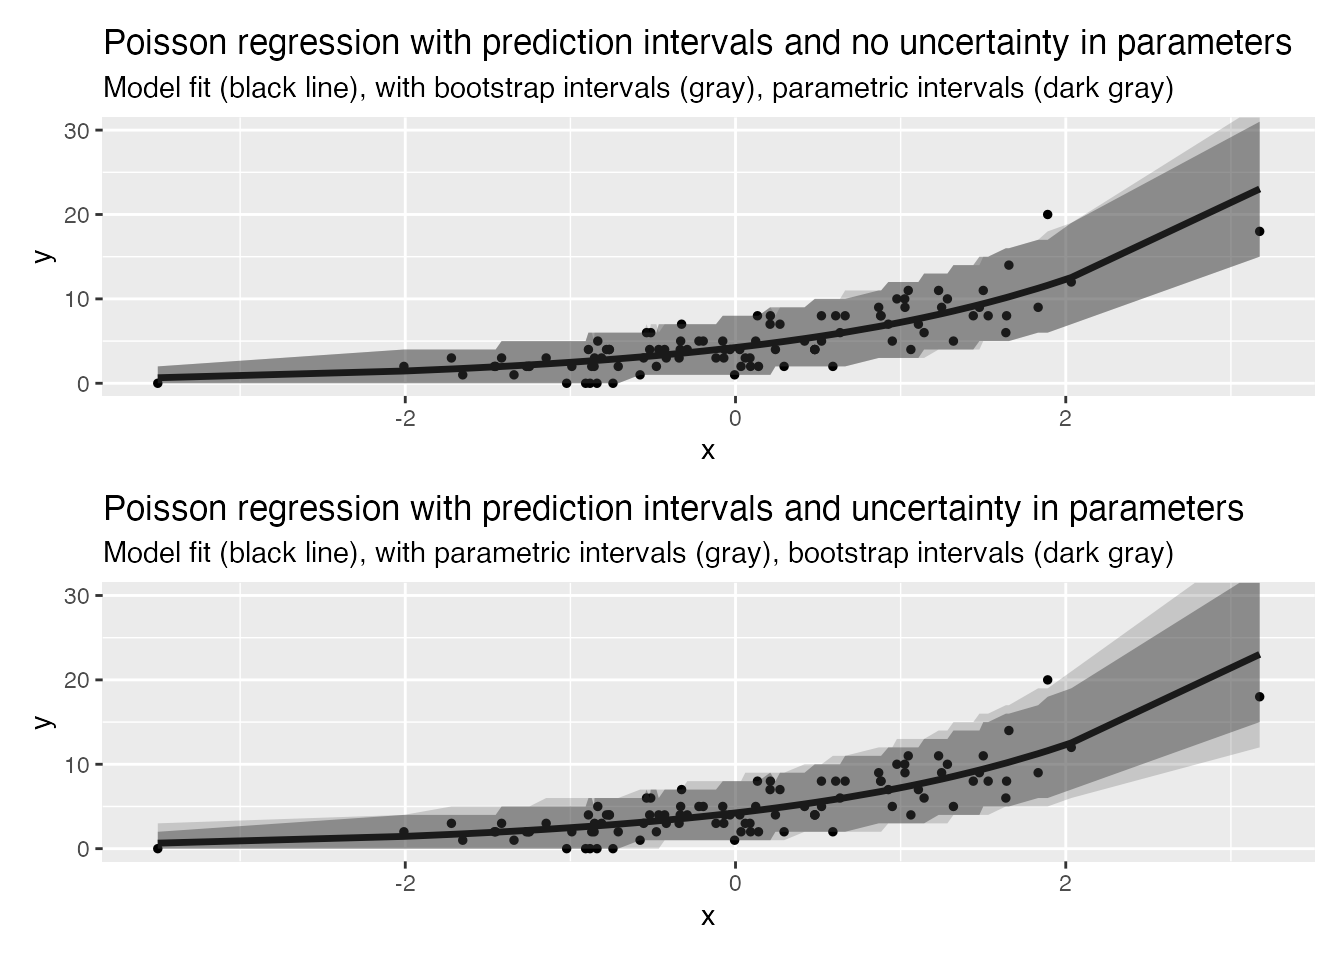
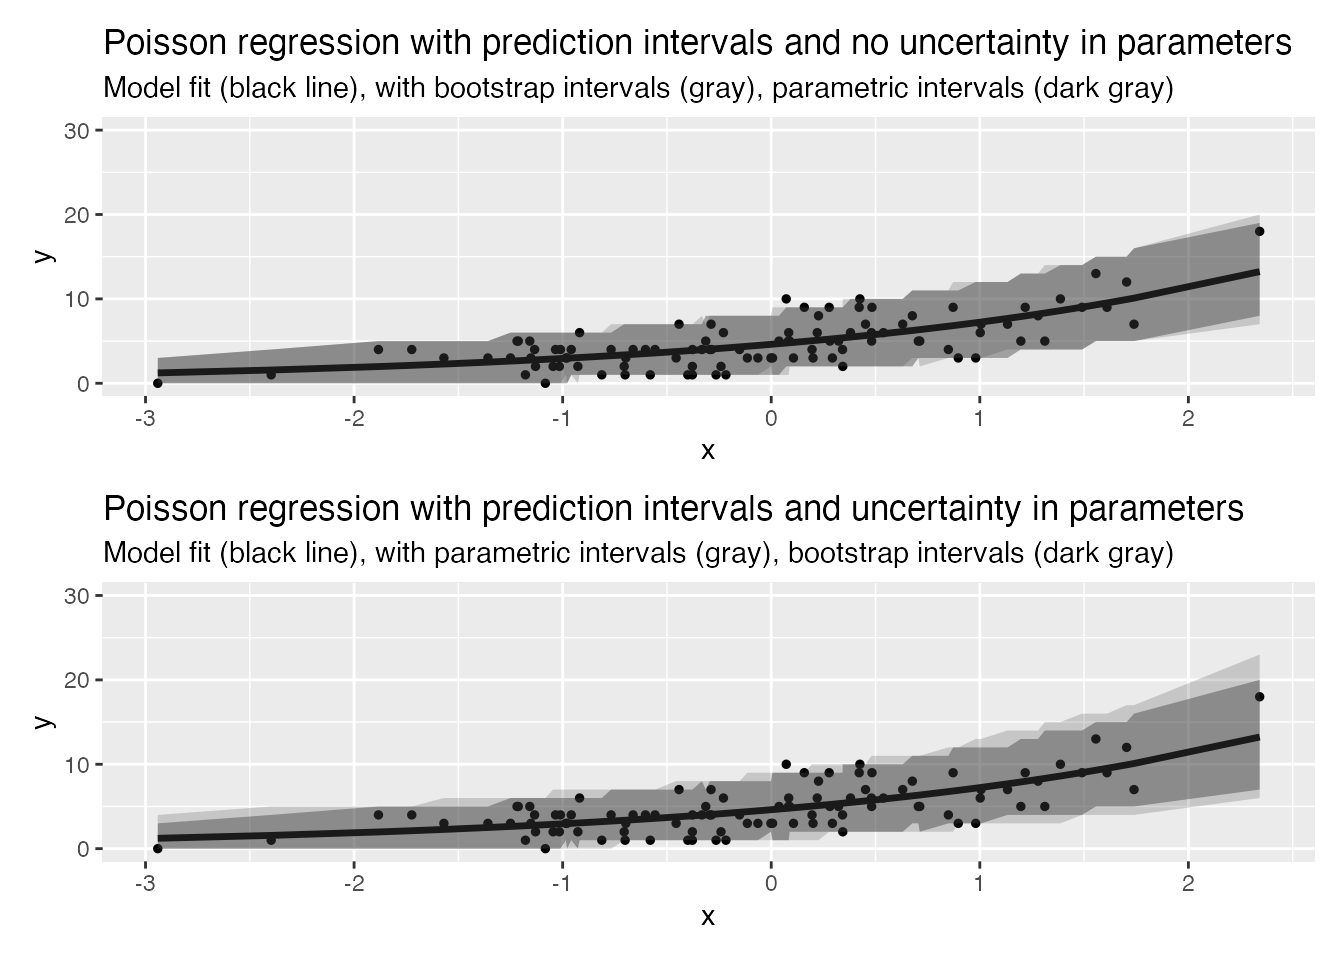
Built site for trending: 0.0.1.0@ecd8669

Changed region(s): [[0.0938, 0.5938, 0.9375, 0.9062], [0.0938, 0.125, 0.9375, 0.4062]]

diff --git a/articles/prediction_intervals.html b/articles/prediction_intervals.html
@@ -31,7 +31,7 @@
       </button>
       <span class="navbar-brand">
         <a class="navbar-link" href="../index.html">trending</a>
-        <span class="version label label-default" data-toggle="tooltip" data-placement="bottom" title="Released version">0.0.0.9000</span>
+        <span class="version label label-default" data-toggle="tooltip" data-placement="bottom" title="Released version">0.0.1.0</span>
       </span>
     </div>
 
@@ -115,7 +115,7 @@
 <h1 class="hasAnchor">
 <a href="#comparison-to-a-bootstrap-approach" class="anchor"></a>Comparison to a bootstrap approach</h1>
 <p>Below we compare the prediction intervals from trending with those generated by the <a href="https://CRAN.R-project.org/package=ciTools"><code>ciTools</code></a> package. <code>ciTools</code> uses a parametric bootstrap approach so the expectation is that <code>trending</code> will produce a more conservative (wider) interval when we allow for uncertainty around the estimate, and a less conservative (narrower) interval when uncertainty is ignored.</p>
-<p>The following examples build on those discussed in the <a href="https://cran.r-project.org/web/packages/ciTools/vignettes/ciTools-glm-vignette.html">ciTools glm vignette</a>:</p>
+<p>The following examples build on those discussed in the <a href="https://CRAN.R-project.org/package=ciTools/vignettes/ciTools-glm-vignette.html">ciTools glm vignette</a>:</p>
 <div id="example-1---poisson" class="section level2">
 <h2 class="hasAnchor">
 <a href="#example-1---poisson" class="anchor"></a>Example 1 - Poisson</h2>
@@ -145,12 +145,12 @@
 <span class="co">#&gt; 20000): The response is not continuous, so Prediction Intervals are approximate</span>
 <span class="fu"><a href="https://rdrr.io/r/utils/head.html">head</a></span><span class="op">(</span><span class="va">dat1</span><span class="op">)</span>
 <span class="co">#&gt;            x y     pred lpb upb</span>
-<span class="co">#&gt; 1  0.4801846 4 5.472529   2  10</span>
-<span class="co">#&gt; 2 -0.8812712 0 2.647615   0   6</span>
-<span class="co">#&gt; 3  1.2481073 9 8.242336   4  13</span>
-<span class="co">#&gt; 4 -0.5563310 3 3.148588   1   6</span>
-<span class="co">#&gt; 5 -2.0082819 2 1.451519   0   4</span>
-<span class="co">#&gt; 6 -1.2552399 2 2.168893   0   5</span>
+<span class="co">#&gt; 1 -0.1143975 3 4.384001   1   8</span>
+<span class="co">#&gt; 2  1.2176999 9 7.979903   4  13</span>
+<span class="co">#&gt; 3  0.1065936 3 4.842002   2   9</span>
+<span class="co">#&gt; 4  0.6765125 8 6.256286   3  11</span>
+<span class="co">#&gt; 5 -0.9843339 3 2.964782   1   6</span>
+<span class="co">#&gt; 6 -0.7050152 2 3.361530   1   7</span>
 
 <span class="co"># add intervals with trending (no uncertainty in parameters)</span>
 <span class="va">poisson_model</span> <span class="op">&lt;-</span> <span class="fu"><a href="../reference/trending_model.html">glm_model</a></span><span class="op">(</span><span class="va">y</span> <span class="op">~</span> <span class="va">x</span>, family <span class="op">=</span> <span class="st">"poisson"</span><span class="op">)</span>
@@ -158,23 +158,23 @@
 <span class="va">dat2</span> <span class="op">&lt;-</span> <span class="fu"><a href="https://rdrr.io/r/stats/predict.html">predict</a></span><span class="op">(</span><span class="va">fitted_model</span>, uncertain <span class="op">=</span> <span class="cn">FALSE</span>, alpha <span class="op">=</span> <span class="fl">0.1</span><span class="op">)</span>
 <span class="fu"><a href="https://rdrr.io/r/utils/head.html">head</a></span><span class="op">(</span><span class="va">dat2</span><span class="op">)</span>
 <span class="co">#&gt;   y          x estimate lower_ci upper_ci lower_pi upper_pi</span>
-<span class="co">#&gt; 1 4  0.4801846 5.472529 5.083101 5.891792        2       10</span>
-<span class="co">#&gt; 2 0 -0.8812712 2.647615 2.331794 3.006211        0        6</span>
-<span class="co">#&gt; 3 9  1.2481073 8.242336 7.576323 8.966896        4       13</span>
-<span class="co">#&gt; 4 3 -0.5563310 3.148588 2.821859 3.513147        1        6</span>
-<span class="co">#&gt; 5 2 -2.0082819 1.451519 1.193990 1.764592        0        4</span>
-<span class="co">#&gt; 6 2 -1.2552399 2.168893 1.869184 2.516659        0        5</span>
+<span class="co">#&gt; 1 3 -0.1143975 4.384001 4.039149 4.758295        1        8</span>
+<span class="co">#&gt; 2 9  1.2176999 7.979903 7.185131 8.862588        4       13</span>
+<span class="co">#&gt; 3 3  0.1065936 4.842002 4.485838 5.226443        2        9</span>
+<span class="co">#&gt; 4 8  0.6765125 6.256286 5.771860 6.781369        2       11</span>
+<span class="co">#&gt; 5 3 -0.9843339 2.964782 2.609530 3.368396        0        6</span>
+<span class="co">#&gt; 6 2 -0.7050152 3.361530 3.010710 3.753230        1        7</span>
 
 <span class="co"># add intervals with trending (uncertainty in parameters)</span>
 <span class="va">dat3</span> <span class="op">&lt;-</span> <span class="fu"><a href="https://rdrr.io/r/stats/predict.html">predict</a></span><span class="op">(</span><span class="va">fitted_model</span>, alpha <span class="op">=</span> <span class="fl">0.1</span><span class="op">)</span>
 <span class="fu"><a href="https://rdrr.io/r/utils/head.html">head</a></span><span class="op">(</span><span class="va">dat3</span><span class="op">)</span>
 <span class="co">#&gt;   y          x estimate lower_ci upper_ci lower_pi upper_pi</span>
-<span class="co">#&gt; 1 4  0.4801846 5.472529 5.083101 5.891792        2       10</span>
-<span class="co">#&gt; 2 0 -0.8812712 2.647615 2.331794 3.006211        0        6</span>
-<span class="co">#&gt; 3 9  1.2481073 8.242336 7.576323 8.966896        3       14</span>
-<span class="co">#&gt; 4 3 -0.5563310 3.148588 2.821859 3.513147        0        7</span>
-<span class="co">#&gt; 5 2 -2.0082819 1.451519 1.193990 1.764592        0        4</span>
-<span class="co">#&gt; 6 2 -1.2552399 2.168893 1.869184 2.516659        0        5</span>
+<span class="co">#&gt; 1 3 -0.1143975 4.384001 4.039149 4.758295        1        9</span>
+<span class="co">#&gt; 2 9  1.2176999 7.979903 7.185131 8.862588        3       14</span>
+<span class="co">#&gt; 3 3  0.1065936 4.842002 4.485838 5.226443        1        9</span>
+<span class="co">#&gt; 4 8  0.6765125 6.256286 5.771860 6.781369        2       11</span>
+<span class="co">#&gt; 5 3 -0.9843339 2.964782 2.609530 3.368396        0        7</span>
+<span class="co">#&gt; 6 2 -0.7050152 3.361530 3.010710 3.753230        1        7</span>
 
 <span class="co"># plots</span>
 <span class="va">p1</span> <span class="op">&lt;-</span> <span class="fu"><a href="https://ggplot2.tidyverse.org/reference/ggplot.html">ggplot</a></span><span class="op">(</span><span class="va">dat1</span>, <span class="fu"><a href="https://ggplot2.tidyverse.org/reference/aes.html">aes</a></span><span class="op">(</span><span class="va">x</span>, <span class="va">y</span><span class="op">)</span><span class="op">)</span> <span class="op">+</span>
@@ -214,37 +214,37 @@
 <span class="co">#&gt; Warning in add_pi.glm(dat, fit, names = c("lpb", "upb"), alpha = 0.1, nsims =</span>
 <span class="co">#&gt; 20000): The response is not continuous, so Prediction Intervals are approximate</span>
 <span class="fu"><a href="https://rdrr.io/r/utils/head.html">head</a></span><span class="op">(</span><span class="va">dat1</span><span class="op">)</span>
-<span class="co">#&gt;           x y      pred lpb upb</span>
-<span class="co">#&gt; 1 1.0894938 8  8.836926   1  23</span>
-<span class="co">#&gt; 2 0.8364304 8  6.729351   0  18</span>
-<span class="co">#&gt; 3 1.5923645 7 15.185698   3  34</span>
-<span class="co">#&gt; 4 0.3438603 0  3.959643   0  13</span>
-<span class="co">#&gt; 5 1.7978554 4 18.946051   5  39</span>
-<span class="co">#&gt; 6 0.4132694 3  4.266880   0  14</span>
+<span class="co">#&gt;            x  y      pred lpb upb</span>
+<span class="co">#&gt; 1 0.09657628  0  2.376125   0   8</span>
+<span class="co">#&gt; 2 1.84355676 24 18.223635   7  32</span>
+<span class="co">#&gt; 3 0.60422536  7  4.295071   0  12</span>
+<span class="co">#&gt; 4 0.87831496  7  5.912678   0  14</span>
+<span class="co">#&gt; 5 1.13797158  6  8.003656   1  18</span>
+<span class="co">#&gt; 6 0.26878365  1  2.904588   0   9</span>
 
 <span class="co"># add intervals with trending (no uncertainty in parameters)</span>
 <span class="va">quasipoisson_model</span> <span class="op">&lt;-</span> <span class="fu"><a href="../reference/trending_model.html">glm_model</a></span><span class="op">(</span><span class="va">y</span> <span class="op">~</span> <span class="va">x</span>, family <span class="op">=</span> <span class="fu"><a href="https://rdrr.io/r/stats/family.html">quasipoisson</a></span><span class="op">(</span>link <span class="op">=</span> <span class="st">"log"</span><span class="op">)</span><span class="op">)</span>
 <span class="va">fitted_model</span> <span class="op">&lt;-</span> <span class="fu"><a href="../reference/fit.html">fit</a></span><span class="op">(</span><span class="va">quasipoisson_model</span>, <span class="va">dat</span><span class="op">)</span>
 <span class="va">dat2</span> <span class="op">&lt;-</span> <span class="fu"><a href="https://rdrr.io/r/stats/predict.html">predict</a></span><span class="op">(</span><span class="va">fitted_model</span>, uncertain <span class="op">=</span> <span class="cn">FALSE</span>, alpha <span class="op">=</span> <span class="fl">0.1</span><span class="op">)</span>
 <span class="fu"><a href="https://rdrr.io/r/utils/head.html">head</a></span><span class="op">(</span><span class="va">dat2</span><span class="op">)</span>
-<span class="co">#&gt;   y         x  estimate  lower_ci  upper_ci lower_pi upper_pi</span>
-<span class="co">#&gt; 1 8 1.0894938  8.836926  7.675652 10.173893        1       23</span>
-<span class="co">#&gt; 2 8 0.8364304  6.729351  5.652913  8.010766        0       19</span>
-<span class="co">#&gt; 3 7 1.5923645 15.185698 13.151531 17.534493        3       33</span>
-<span class="co">#&gt; 4 0 0.3438603  3.959643  3.028227  5.177541        0       14</span>
-<span class="co">#&gt; 5 4 1.7978554 18.946051 15.962637 22.487066        5       39</span>
-<span class="co">#&gt; 6 3 0.4132694  4.266880  3.310646  5.499311        0       14</span>
+<span class="co">#&gt;    y          x  estimate  lower_ci  upper_ci lower_pi upper_pi</span>
+<span class="co">#&gt; 1  0 0.09657628  2.376125  1.831088  3.083398        0        8</span>
+<span class="co">#&gt; 2 24 1.84355676 18.223635 15.814110 21.000288        7       32</span>
+<span class="co">#&gt; 3  7 0.60422536  4.295071  3.599661  5.124827        0       12</span>
+<span class="co">#&gt; 4  7 0.87831496  5.912678  5.148475  6.790314        1       14</span>
+<span class="co">#&gt; 5  6 1.13797158  8.003656  7.148459  8.961164        1       18</span>
+<span class="co">#&gt; 6  1 0.26878365  2.904588  2.305541  3.659285        0        9</span>
 
 <span class="co"># add intervals with trending (uncertainty in parameters)</span>
 <span class="va">dat3</span> <span class="op">&lt;-</span> <span class="fu"><a href="https://rdrr.io/r/stats/predict.html">predict</a></span><span class="op">(</span><span class="va">fitted_model</span>, alpha <span class="op">=</span> <span class="fl">0.1</span><span class="op">)</span>
 <span class="fu"><a href="https://rdrr.io/r/utils/head.html">head</a></span><span class="op">(</span><span class="va">dat3</span><span class="op">)</span>
-<span class="co">#&gt;   y         x  estimate  lower_ci  upper_ci lower_pi upper_pi</span>
-<span class="co">#&gt; 1 8 1.0894938  8.836926  7.675652 10.173893        0       25</span>
-<span class="co">#&gt; 2 8 0.8364304  6.729351  5.652913  8.010766        0       21</span>
-<span class="co">#&gt; 3 7 1.5923645 15.185698 13.151531 17.534493        2       36</span>
-<span class="co">#&gt; 4 0 0.3438603  3.959643  3.028227  5.177541        0       16</span>
-<span class="co">#&gt; 5 4 1.7978554 18.946051 15.962637 22.487066        4       44</span>
-<span class="co">#&gt; 6 3 0.4132694  4.266880  3.310646  5.499311        0       17</span>
+<span class="co">#&gt;    y          x  estimate  lower_ci  upper_ci lower_pi upper_pi</span>
+<span class="co">#&gt; 1  0 0.09657628  2.376125  1.831088  3.083398        0        9</span>
+<span class="co">#&gt; 2 24 1.84355676 18.223635 15.814110 21.000288        6       36</span>
+<span class="co">#&gt; 3  7 0.60422536  4.295071  3.599661  5.124827        0       13</span>
+<span class="co">#&gt; 4  7 0.87831496  5.912678  5.148475  6.790314        0       16</span>
+<span class="co">#&gt; 5  6 1.13797158  8.003656  7.148459  8.961164        1       19</span>
+<span class="co">#&gt; 6  1 0.26878365  2.904588  2.305541  3.659285        0       10</span>
 
 <span class="co"># plots</span>
 <span class="va">p3</span> <span class="op">&lt;-</span> <span class="fu"><a href="https://ggplot2.tidyverse.org/reference/ggplot.html">ggplot</a></span><span class="op">(</span><span class="va">dat1</span>, <span class="fu"><a href="https://ggplot2.tidyverse.org/reference/aes.html">aes</a></span><span class="op">(</span><span class="va">x</span>, <span class="va">y</span><span class="op">)</span><span class="op">)</span> <span class="op">+</span>

diff --git a/index.html b/index.html
@@ -33,7 +33,7 @@
       </button>
       <span class="navbar-brand">
         <a class="navbar-link" href="index.html">trending</a>
-        <span class="version label label-default" data-toggle="tooltip" data-placement="bottom" title="Released version">0.0.0.9000</span>
+        <span class="version label label-default" data-toggle="tooltip" data-placement="bottom" title="Released version">0.0.1.0</span>
       </span>
     </div>
 
@@ -90,7 +90,7 @@
 
 
 <p><br><strong><span style="color: red;">Disclaimer</span></strong></p>
-<p>This package is a work in progress. Please reach out to the authors before using.</p>
+<p>This package is a work in progress. Version 0.1.0 has been released to get wider feedback from the community. Please reach out to the authors should you have any problems.</p>
 <div id="trending" class="section level1">
 <div class="page-header"><h1 class="hasAnchor">
 <a href="#trending" class="anchor"></a>Trending</h1></div>
@@ -137,7 +137,7 @@
 <a href="#acknowledgements" class="anchor"></a>Acknowledgements</h1>
 <ul>
 <li><p>Gavin Simpson; Our method to calculate prediction intervals follows one that he described on his <a href="https://fromthebottomoftheheap.net">blog</a>. <br><span class="math display">1</span><br><br><span class="math display">2</span><br></p></li>
-<li><p>John Haman and Matthew Avery; Our implementation of prediction intervals was guided by their bootstrapped approach within the <a href="https://cran.r-project.org/web/packages/ciTools/index.html">ciTools</a> package.</p></li>
+<li><p>John Haman and Matthew Avery; Our implementation of prediction intervals was guided by their bootstrapped approach within the <a href="https://CRAN.R-project.org/package=ciTools">ciTools</a> package.</p></li>
 </ul>
 <!-- end list --><ol>
 <li><p><a href="https://fromthebottomoftheheap.net/2017/05/01/glm-prediction-intervals-i/" class="uri">https://fromthebottomoftheheap.net/2017/05/01/glm-prediction-intervals-i/</a></p></li>

diff --git a/reference/fit.html b/reference/fit.html
@@ -73,7 +73,7 @@ trending_model_fit or  trending_model_fit_list." />
       </button>
       <span class="navbar-brand">
         <a class="navbar-link" href="../index.html">trending</a>
-        <span class="version label label-default" data-toggle="tooltip" data-placement="bottom" title="Released version">0.0.0.9000</span>
+        <span class="version label label-default" data-toggle="tooltip" data-placement="bottom" title="Released version">0.0.1.0</span>
       </span>
     </div>
 
@@ -199,8 +199,8 @@ brms_model or a list of these objects.</p></td>
 #&gt;     }
 #&gt;     result
 #&gt; }
-#&gt; &lt;bytecode: 0x7f97e0162128&gt;
-#&gt; &lt;environment: 0x7f97e0161248&gt;
+#&gt; &lt;bytecode: 0x7fd324b912f8&gt;
+#&gt; &lt;environment: 0x7fd324b94328&gt;
 #&gt; 
 #&gt; attr(,"class")
 #&gt; [1] "trending_model_fit" "list"              </div><div class='input'><span class='fu'>fit</span><span class='op'>(</span><span class='fu'><a href='https://rdrr.io/r/base/list.html'>list</a></span><span class='op'>(</span><span class='va'>poisson_model</span>, <span class='va'>negbin_model</span><span class='op'>)</span>, <span class='va'>dat</span><span class='op'>)</span>
@@ -231,8 +231,8 @@ brms_model or a list of these objects.</p></td>
 #&gt;     }
 #&gt;     result
 #&gt; }
-#&gt; &lt;bytecode: 0x7f97e0162128&gt;
-#&gt; &lt;environment: 0x7f97e0270f80&gt;
+#&gt; &lt;bytecode: 0x7fd324b912f8&gt;
+#&gt; &lt;environment: 0x7fd324ca61b8&gt;
 #&gt; 
 #&gt; attr(,"class")
 #&gt; [1] "trending_model_fit" "list"              
@@ -264,8 +264,8 @@ brms_model or a list of these objects.</p></td>
 #&gt;     }
 #&gt;     result
 #&gt; }
-#&gt; &lt;bytecode: 0x7f97e0162128&gt;
-#&gt; &lt;environment: 0x7f97e0601ed0&gt;
+#&gt; &lt;bytecode: 0x7fd324b912f8&gt;
+#&gt; &lt;environment: 0x7fd32508f428&gt;
 #&gt; 
 #&gt; attr(,"class")
 #&gt; [1] "trending_model_fit" "list"              

diff --git a/reference/trending_model_fit-prediction.html b/reference/trending_model_fit-prediction.html
@@ -73,7 +73,7 @@ confidence/prediction intervals for trending_model_fit objects." />
       </button>
       <span class="navbar-brand">
         <a class="navbar-link" href="../index.html">trending</a>
-        <span class="version label label-default" data-toggle="tooltip" data-placement="bottom" title="Released version">0.0.0.9000</span>
+        <span class="version label label-default" data-toggle="tooltip" data-placement="bottom" title="Released version">0.0.1.0</span>
       </span>
     </div>
 

diff --git a/reference/trending_model_fit_accessors.html b/reference/trending_model_fit_accessors.html
@@ -73,7 +73,7 @@ trending_model_fit objects. See details." />
       </button>
       <span class="navbar-brand">
         <a class="navbar-link" href="../index.html">trending</a>
-        <span class="version label label-default" data-toggle="tooltip" data-placement="bottom" title="Released version">0.0.0.9000</span>
+        <span class="version label label-default" data-toggle="tooltip" data-placement="bottom" title="Released version">0.0.1.0</span>
       </span>
     </div>
 

diff --git a/reference/trending_model_accessors.html b/reference/trending_model_accessors.html
@@ -73,7 +73,7 @@ trending_model objects. See details." />
       </button>
       <span class="navbar-brand">
         <a class="navbar-link" href="../index.html">trending</a>
-        <span class="version label label-default" data-toggle="tooltip" data-placement="bottom" title="Released version">0.0.0.9000</span>
+        <span class="version label label-default" data-toggle="tooltip" data-placement="bottom" title="Released version">0.0.1.0</span>
       </span>
     </div>
 

diff --git a/reference/trending_model.html b/reference/trending_model.html
@@ -74,7 +74,7 @@ interfaces." />
       </button>
       <span class="navbar-brand">
         <a class="navbar-link" href="../index.html">trending</a>
-        <span class="version label label-default" data-toggle="tooltip" data-placement="bottom" title="Released version">0.0.0.9000</span>
+        <span class="version label label-default" data-toggle="tooltip" data-placement="bottom" title="Released version">0.0.1.0</span>
       </span>
     </div>
 

diff --git a/articles/Introduction.html b/articles/Introduction.html
@@ -31,7 +31,7 @@
       </button>
       <span class="navbar-brand">
         <a class="navbar-link" href="../index.html">trending</a>
-        <span class="version label label-default" data-toggle="tooltip" data-placement="bottom" title="Released version">0.0.0.9000</span>
+        <span class="version label label-default" data-toggle="tooltip" data-placement="bottom" title="Released version">0.0.1.0</span>
       </span>
     </div>
 

diff --git a/articles/index.html b/articles/index.html
@@ -71,7 +71,7 @@
       </button>
       <span class="navbar-brand">
         <a class="navbar-link" href="../index.html">trending</a>
-        <span class="version label label-default" data-toggle="tooltip" data-placement="bottom" title="Released version">0.0.0.9000</span>
+        <span class="version label label-default" data-toggle="tooltip" data-placement="bottom" title="Released version">0.0.1.0</span>
       </span>
     </div>
 

diff --git a/reference/index.html b/reference/index.html
@@ -71,7 +71,7 @@
       </button>
       <span class="navbar-brand">
         <a class="navbar-link" href="../index.html">trending</a>
-        <span class="version label label-default" data-toggle="tooltip" data-placement="bottom" title="Released version">0.0.0.9000</span>
+        <span class="version label label-default" data-toggle="tooltip" data-placement="bottom" title="Released version">0.0.1.0</span>
       </span>
     </div>
 

diff --git a/404.html b/404.html
@@ -71,7 +71,7 @@
       </button>
       <span class="navbar-brand">
         <a class="navbar-link" href="index.html">trending</a>
-        <span class="version label label-default" data-toggle="tooltip" data-placement="bottom" title="Released version">0.0.0.9000</span>
+        <span class="version label label-default" data-toggle="tooltip" data-placement="bottom" title="Released version">0.0.1.0</span>
       </span>
     </div>
 

diff --git a/LICENSE-text.html b/LICENSE-text.html
@@ -71,7 +71,7 @@
       </button>
       <span class="navbar-brand">
         <a class="navbar-link" href="index.html">trending</a>
-        <span class="version label label-default" data-toggle="tooltip" data-placement="bottom" title="Released version">0.0.0.9000</span>
+        <span class="version label label-default" data-toggle="tooltip" data-placement="bottom" title="Released version">0.0.1.0</span>
       </span>
     </div>
 
